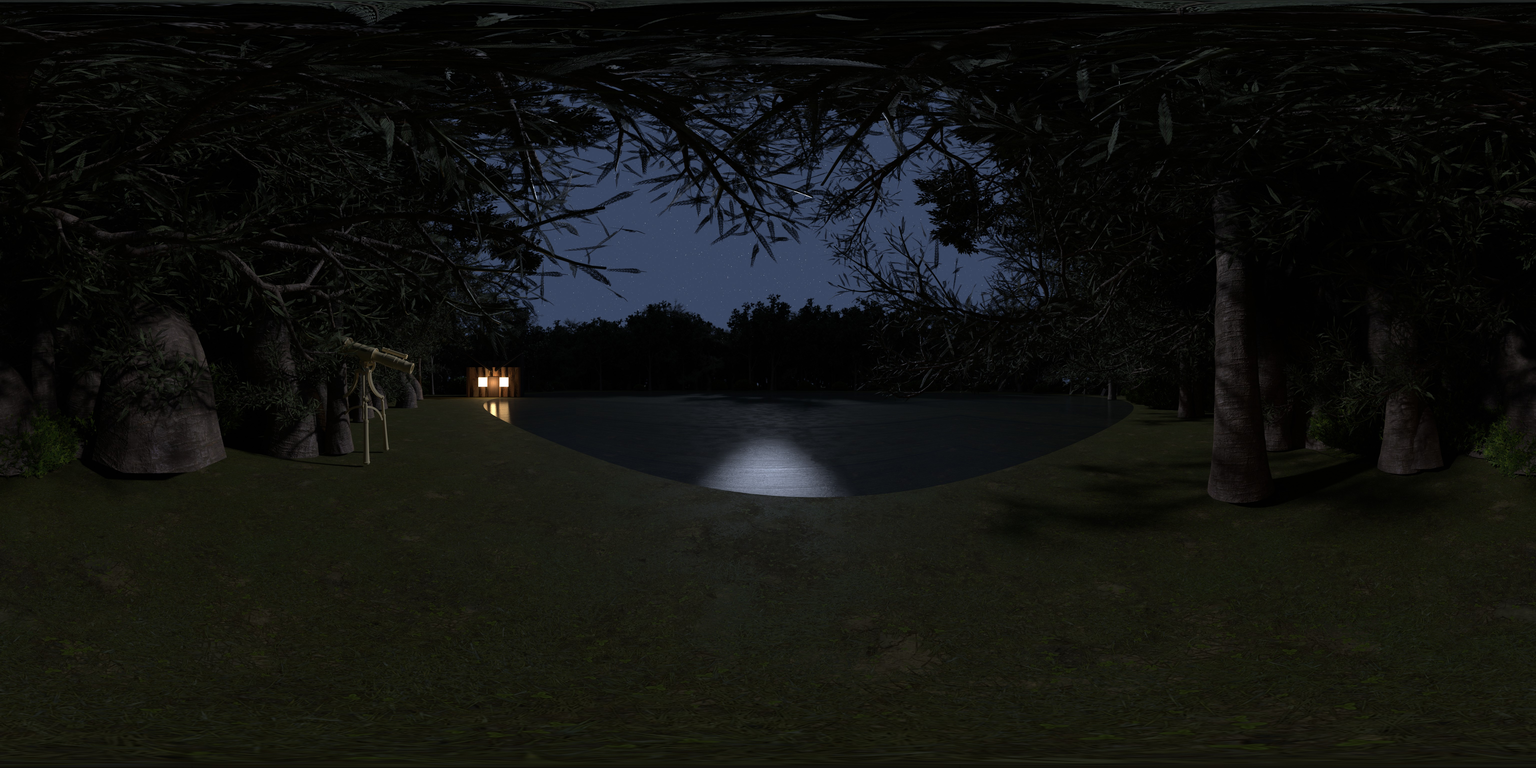
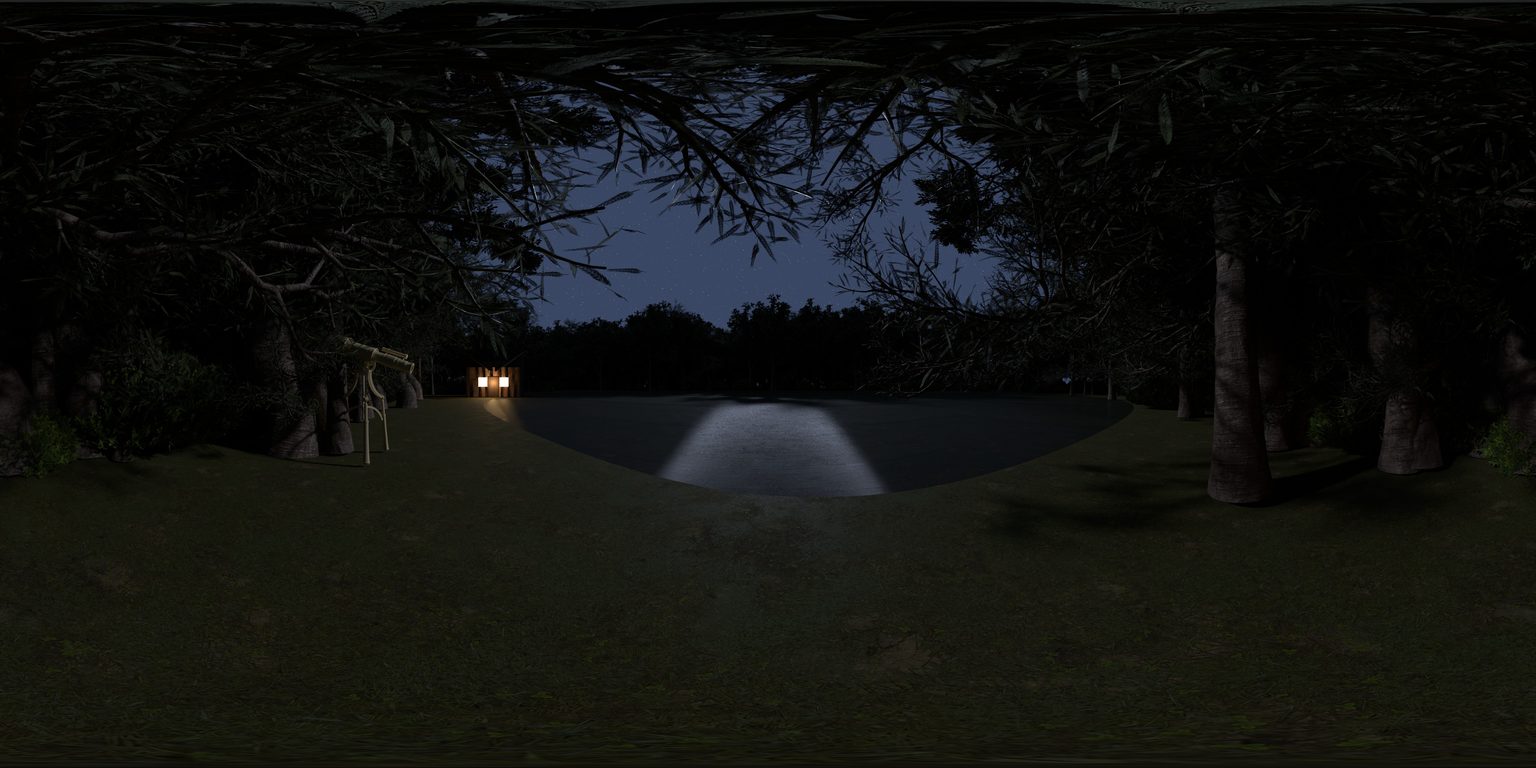
feat(cabin): outdoor scene polish — quiet forest, lake BGM, water shimmer, open sky
小屋の外（湖畔）まわりの改善:
- 森の環境音(forest)を per-sound 係数で激減(0.18倍)。屋外で薪同様うるさくならない。
- 屋外に出ると BGM「Lake in the Forest」を自動再生、小屋へ戻ると停止。
- 「小屋に戻る」マーカーを実際の小屋の位置(lon180→lon65)へ移動して重ねた。
- 湖面に淡い揺らぎシェーダー(月光のさざ波)を追加。屋外時のみ表示。
- _blender/cabin_outside_360.py: 頭上を塞いでいた framing trees を減らし後退させ、
  夜空が中央上部に開けるように。あわせて Blender 5.1.1 互換修正(Emission/
  Specular/Transmission socket 改名 + panorama_type の魚眼silent fail)。
  cabin-outside360.jpg / cabin-outside-still.jpg を equirect で再レンダ(夜)。

diff --git a/cabin.html b/cabin.html
@@ -1285,6 +1285,7 @@ function setVolumeMusic(v){
     if(m.audio && m.on) m.audio.volume = v * .7;
   });
 }
+const SND_VOL = { forest: 0.18 };   // per-sound loudness factor (forest kept very faint outdoors)
 function toggleSound(name, btn){
   if(!SOUNDS[name]) buildSound(name);
   const s = SOUNDS[name];
@@ -1300,7 +1301,7 @@ function toggleSound(name, btn){
     s.on = false; btn.classList.remove('on');
   } else {
     s.gain.gain.cancelScheduledValues(ctx.currentTime);
-    s.gain.gain.linearRampToValueAtTime(SOUNDS.master * .6, ctx.currentTime + .8);
+    s.gain.gain.linearRampToValueAtTime(SOUNDS.master * .6 * (SND_VOL[name]||1), ctx.currentTime + .8);
     s.on = true; btn.classList.add('on');
   }
 }
@@ -1798,7 +1799,7 @@ const MARKERS_OUT = [
   { key:'meditate', lon:0,   lat:-9,  r:5.5, jp:'湖畔で星を見て瞑想する', en:'meditate under the stars' },
   { key:'universe', lon:0,   lat:50,  r:7,   jp:'19,000人のアーティストの宇宙へ', en:'into the universe of 19,000 artists' },
   { key:'forest',   lon:96,  lat:-8,  r:6,   jp:'森の奥へ歩いていく',     en:'walk into the deep forest' },
-  { key:'inside',   lon:180, lat:-2,  r:6,   jp:'小屋に戻る',            en:'back inside' },
+  { key:'inside',   lon:65,  lat:0,   r:5,   jp:'小屋に戻る',            en:'back inside' },
 ];
 
 let renderer;
@@ -1892,6 +1893,33 @@ else {
   const fire = new THREE.Mesh(new THREE.PlaneGeometry(1.45,1.85), fireMat);
   fire.position.copy(bearing(HEARTH_LON,-5.5,10)); faceOrigin(fire); fire.renderOrder=2;
   scene.add(fire);
+
+  // ── WATER SHIMMER on the lake (outdoors only): a faint, slow ripple of moonlight glints ──
+  const waterUniforms = { uTime:{value:0} };
+  const waterMat = new THREE.ShaderMaterial({
+    uniforms: waterUniforms, transparent:true, depthWrite:false, depthTest:false, blending:THREE.AdditiveBlending,
+    vertexShader:`varying vec2 vP; void main(){ vP=position.xy; gl_Position=projectionMatrix*modelViewMatrix*vec4(position,1.0); }`,
+    fragmentShader:`
+      precision highp float; varying vec2 vP; uniform float uTime;
+      float hash(vec2 p){ return fract(sin(dot(p,vec2(127.1,311.7)))*43758.5453); }
+      float noise(vec2 p){ vec2 i=floor(p),f=fract(p); f=f*f*(3.0-2.0*f);
+        return mix(mix(hash(i),hash(i+vec2(1,0)),f.x),mix(hash(i+vec2(0,1)),hash(i+vec2(1,1)),f.x),f.y); }
+      void main(){
+        vec2 p=vP*0.5; float t=uTime*0.22;
+        float r1=noise(vec2(p.x*2.0,       p.y*7.0  - t*2.0));
+        float r2=noise(vec2(p.x*3.4 + 5.0, p.y*12.0 + t*1.3));
+        float ripple=pow(0.5+0.5*sin((r1+r2)*6.2831 + t*3.0), 3.0);   // crests of light
+        float fade=smoothstep(1.0,0.12,length(vP));                   // soft-edged pool
+        float a=ripple*fade*0.16;
+        vec3 col=mix(vec3(0.52,0.66,0.86), vec3(0.96,0.98,1.0), ripple);
+        gl_FragColor=vec4(col, a);
+      }`
+  });
+  const water = new THREE.Mesh(new THREE.PlaneGeometry(16,16,1,1), waterMat);
+  water.rotation.x = -Math.PI/2;            // lay flat
+  water.position.set(4.6,-2.5,0);           // in front (lake, lon≈0) and below eye level
+  water.renderOrder=1; water.visible=false;
+  scene.add(water);
 
   // hearth halo + embers
   const glowMat = new THREE.SpriteMaterial({ map:glowTex(255,138,50), blending:THREE.AdditiveBlending, depthWrite:false, transparent:true, opacity:.4 });
@@ -2100,6 +2128,7 @@ else {
     goOutside(){
       if(_outside) return; _outside=true;
       try{ window.__setAmbience && window.__setAmbience('outside'); }catch(_){}
+      try{ const _m4=document.querySelector('#musicPanel .mp-track[data-track="4"]'); if(_m4 && !_m4.classList.contains('on')) _m4.click(); }catch(_){}  // outdoor BGM: Lake in the Forest
       _fade(true,520);
       setTimeout(()=>{ loadOutside(()=>_enterOutside()); },540);
     },
@@ -2112,6 +2141,7 @@ else {
     goInside(){
       if(!_outside) return; _outside=false;
       try{ window.__setAmbience && window.__setAmbience('inside'); }catch(_){}
+      try{ const _m4=document.querySelector('#musicPanel .mp-track[data-track="4"]'); if(_m4 && _m4.classList.contains('on')) _m4.click(); }catch(_){}  // stop outdoor BGM on return
       _fade(true,520);
       setTimeout(()=>{
         if(insideTex){ skyMat.map=insideTex; skyMat.needsUpdate=true; _enterInside(); }
@@ -2307,6 +2337,7 @@ else {
     requestAnimationFrame(animate);
     const dt=Math.min(clock.getDelta(),.05), t=clock.elapsedTime;
     fireUniforms.uTime.value=t;
+    waterUniforms.uTime.value=t; water.visible = _outside && !meditating && !capOpen;
     updateSkip(dt);
 
     if(!dragging && !reduce && !meditating){ idle+=dt; if(idle>6) tLon+=dt*0.5; }

diff --git a/_blender/cabin_outside_360.py b/_blender/cabin_outside_360.py
@@ -19,6 +19,12 @@ import bpy, os, sys, math, random
 from mathutils import Vector
 random.seed(7)
 
+# Blender 4.0+/5.x renamed Principled BSDF sockets: 'Emission'->'Emission Color',
+# 'Specular'->'Specular IOR Level'. These shims keep the script working on 5.1.1.
+def _emit_in(b): return 'Emission Color' if 'Emission Color' in b.inputs else 'Emission'
+def _set_spec(b, v):
+    b.inputs['Specular IOR Level' if 'Specular IOR Level' in b.inputs else 'Specular'].default_value = v
+
 ARGV = sys.argv[sys.argv.index('--')+1:] if '--' in sys.argv else []
 MODE = (ARGV[0] if ARGV else 'preview').lower()
 TIME = (ARGV[1] if len(ARGV) > 1 else 'night').lower()
@@ -36,7 +42,7 @@ def make_emissive(name, color, strength):
     m = bpy.data.materials.new(name); m.use_nodes = True
     b = m.node_tree.nodes.get('Principled BSDF')
     b.inputs['Base Color'].default_value = (*color, 1)
-    b.inputs['Emission'].default_value = (*color, 1)
+    b.inputs[_emit_in(b)].default_value = (*color, 1)
     b.inputs['Emission Strength'].default_value = strength
     return m
 
@@ -45,7 +51,7 @@ def make_solid(name, color, rough=0.85, spec=0.3):
     b = m.node_tree.nodes.get('Principled BSDF')
     b.inputs['Base Color'].default_value = (*color, 1)
     b.inputs['Roughness'].default_value = rough
-    b.inputs['Specular'].default_value = spec
+    _set_spec(b, spec)
     return m
 
 def make_wood(name, fam, mapscale=0.5, base_mult=(1,1,1)):
@@ -107,7 +113,7 @@ def make_enc_ground(name, fam, mapscale, tint):
     if nm:
         nmap = nodes.new('ShaderNodeNormalMap'); nmap.inputs['Strength'].default_value = 1.4
         links.new(nm.outputs['Color'], nmap.inputs['Color']); links.new(nmap.outputs['Normal'], bsdf.inputs['Normal'])
-    try: bsdf.inputs['Specular'].default_value = 0.1
+    try: _set_spec(bsdf, 0.1)
     except Exception: pass
     return m
 
@@ -131,7 +137,7 @@ def make_leaf(name, fam, tint):
         links.new(bc.outputs['Color'], mix.inputs[1]); links.new(mix.outputs['Color'], bsdf.inputs['Base Color'])
     op = img('opacity', True)
     if op: links.new(op.outputs['Color'], bsdf.inputs['Alpha'])
-    try: bsdf.inputs['Roughness'].default_value = 0.95; bsdf.inputs['Specular'].default_value = 0.05
+    try: bsdf.inputs['Roughness'].default_value = 0.95; _set_spec(bsdf, 0.05)
     except Exception: pass
     return m
 
@@ -156,13 +162,13 @@ def make_water():
     if DAY:
         b.inputs['Base Color'].default_value = (0.006, 0.035, 0.060, 1) # dark blue-teal forest lake
         b.inputs['Roughness'].default_value = 0.03                     # crisp mirror: reflects the far treeline + cabin
-        b.inputs['Transmission'].default_value = 0.12                  # a hint of depth, but the water stays dark
+        b.inputs['Transmission Weight' if 'Transmission Weight' in b.inputs else 'Transmission'].default_value = 0.12
         b.inputs['IOR'].default_value = 1.333
-        b.inputs['Specular'].default_value = 0.5
+        _set_spec(b, 0.5)
     else:
         b.inputs['Base Color'].default_value = (0.013, 0.026, 0.042, 1)
         b.inputs['Roughness'].default_value = 0.09
-        b.inputs['Specular'].default_value = 0.6
+        _set_spec(b, 0.6)
     return m
 
 def make_flame():
@@ -432,13 +438,14 @@ for i in range(500):
     if in_water(x, y): continue
     place(random.choice(tree_datas), (x, y, 0.0), random.uniform(0, math.tau),
           random.uniform(11, 22), 0.05)
-# near framing trunks leaning over the shore — heavy canopy in the top corners (an enclosed clearing)
+# a few framing trunks set well BACK on each side — they frame the view without arching
+# a heavy canopy overhead, so the night sky stays open above the lake.
 for sx in (-1, 1):
-    for k in range(5):
-        fx = sx * random.uniform(4.5, 12.0); fy = random.uniform(-9.0, -3.0)
+    for k in range(2):
+        fx = sx * random.uniform(10.0, 18.0); fy = random.uniform(-18.0, -9.0)
         if near_cabin(fx, fy): continue
         place(random.choice(tree_datas), (fx, fy, 0.0), random.uniform(0, math.tau),
-              random.uniform(18, 27), 0.06)
+              random.uniform(13, 19), 0.06)
 # thick wild undergrowth (ferns/shrubs) all around — unkempt forest floor
 for i in range(760):
     a = random.uniform(0, math.tau); r = 3 + (random.random()**1.1) * 76
@@ -489,8 +496,12 @@ except Exception: pass
 
 # ============================================================ camera + render
 pd = bpy.data.cameras.new('Pano'); pd.type = 'PANO'
-try: pd.cycles.panorama_type = 'EQUIRECTANGULAR'
-except Exception: pass
+# Blender 4.0+ moved panorama_type onto camera data (silent fisheye fallback otherwise)
+try:
+    pd.panorama_type = 'EQUIRECTANGULAR'
+except Exception:
+    try: pd.cycles.panorama_type = 'EQUIRECTANGULAR'
+    except Exception: pass
 cam = bpy.data.objects.new('Pano', pd); coll.objects.link(cam)
 cam.location = (0, 0, 1.35); cam.rotation_euler = (math.radians(90), 0, 0)   # standing on the bank lip, low — water begins ~0.4 m in front, filling the view below
 
